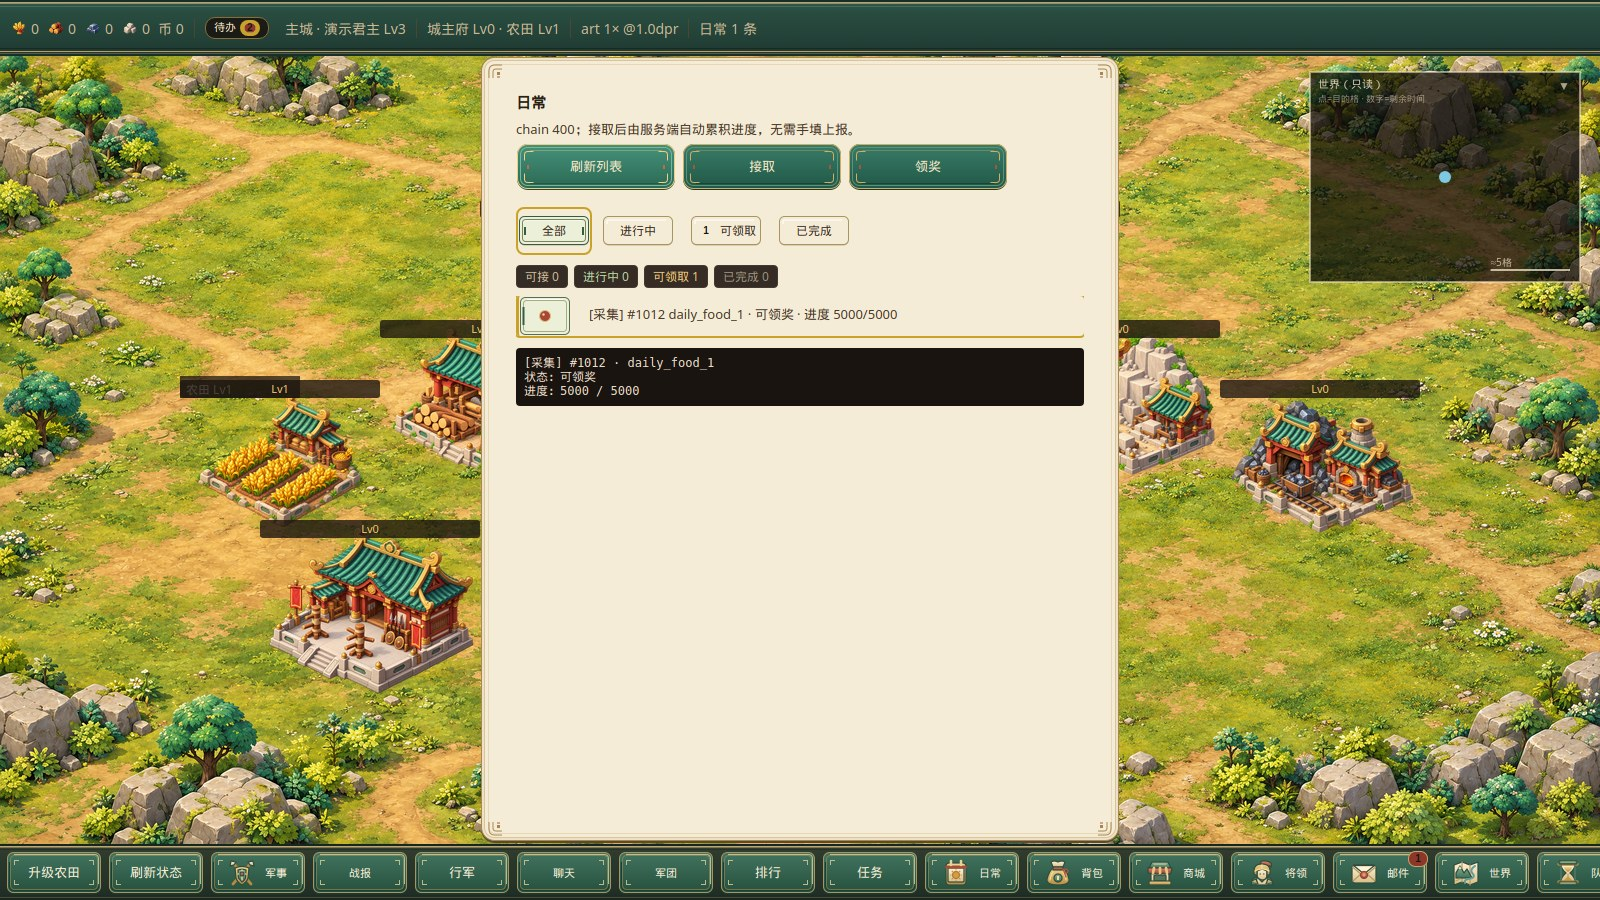
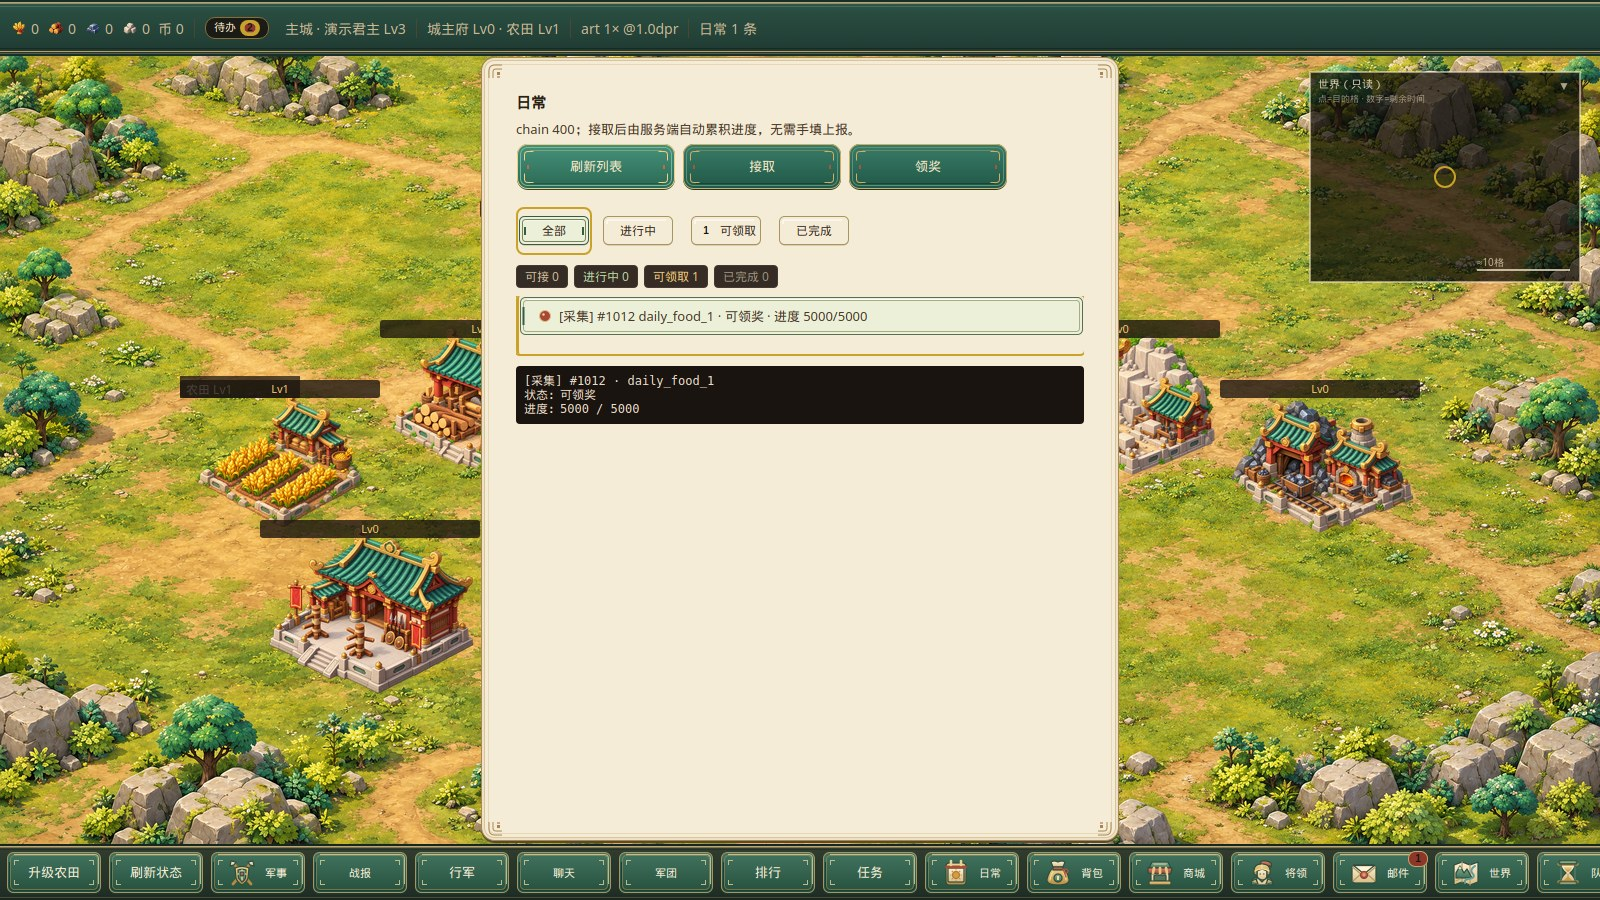
CLIENT-146 ART-UI-FILTER-008 日常行条与 badge_count 皮肤 (#579)
Closes #578. 日常 40px 横向行条修复；邮件 chip badge_count 皮肤挂载与证据。#108/#77/#82/#506 不合。

Changed region(s): [[0.3125, 0.3111, 0.6875, 0.4978], [0.875, 0.1867, 0.9062, 0.2178]]

diff --git a/client/src/engine/artUiFilterSkin.test.ts b/client/src/engine/artUiFilterSkin.test.ts
@@ -171,6 +171,29 @@ describe("mountFilterRow", () => {
     row.classList.add("selected");
     expect(resolveFilterRowAssetId(row)).toBe(ROW_FILTER_ASSET_BY_STATE.selected);
   });
+
+  it("keeps daily quest title in the 40px skin bar; cross-links in detail", () => {
+    const row = document.createElement("li");
+    row.dataset.uiFilterRow = "";
+    const dot = document.createElement("span");
+    dot.className = "daily-quest-row-claim-dot";
+    dot.dataset.uiFilterBadge = "dot";
+    const main = document.createElement("span");
+    main.className = "daily-quest-row-main";
+    main.textContent = "征收粮食 5000/5000";
+    const tag = document.createElement("button");
+    tag.type = "button";
+    tag.className = "daily-cross-link-tag";
+    tag.textContent = "邮件";
+    row.append(dot, main, tag);
+    mountFilterRow(row, mockAssets());
+    const bar = row.querySelector(".art-filter-row-skin-bar");
+    const detail = row.querySelector(".art-filter-row-detail");
+    expect(bar?.contains(main)).toBe(true);
+    expect(bar?.contains(dot)).toBe(true);
+    expect(detail?.contains(tag)).toBe(true);
+    expect(detail?.contains(main)).toBe(false);
+  });
 });
 
 describe("applyFilterChipVisualState", () => {

diff --git a/client/index.html b/client/index.html
@@ -1028,6 +1028,13 @@
       }
       .daily-quest-list li.art-filter-row--skinned {
         flex-wrap: nowrap;
+        flex-direction: column;
+        align-items: stretch;
+        gap: 0;
+      }
+      .daily-quest-list li.art-filter-row--skinned .art-filter-row-skin-bar {
+        width: 100%;
+        box-sizing: border-box;
       }
       .art-filter-chip-evidence-staging,
       .art-filter-row-evidence-staging {
@@ -1414,6 +1421,13 @@
         max-width: 100%;
         overflow: hidden;
         text-overflow: ellipsis;
+      }
+      .mail-filter-tab-badge.art-filter-badge-count--skinned {
+        padding: 0;
+        background: transparent;
+        border-radius: 0;
+        overflow: visible;
+        color: inherit;
       }
       @keyframes queue-build-complete-pulse-keyframes {
         0%, 100% { box-shadow: inset 0 0 0 0 transparent; }

diff --git a/client/src/ui/HeroMailPanels.ts b/client/src/ui/HeroMailPanels.ts
@@ -1,5 +1,4 @@
 import type { AssetLoader } from "@/engine/AssetLoader";
-import { applyUiCountBadge } from "@/engine/artBadgeSkin";
 import {
   PANEL_STATE_LOADING_MESSAGE,
   renderPanelStateListRow,
@@ -797,11 +796,7 @@ export class HeroMailPanels {
       const count = spec.action === "mail-filter-all" ? unclaimedCount : unreadForTab;
       countEl.dataset.filterBadgeCount = String(count);
       if (loader) {
-        applyUiCountBadge(countEl, count, {
-          assets: loader,
-          hiddenClass: "hidden",
-          fallbackText: () => spec.countBadge,
-        });
+        mountFilterBadgeCount(countEl, loader, count);
       } else {
         countEl.textContent = spec.countBadge;
         const show = Boolean(spec.countBadge);

diff --git a/client/src/engine/artUiFilterSkin.ts b/client/src/engine/artUiFilterSkin.ts
@@ -61,7 +61,7 @@ export const FILTER_CHIP_HIT_MIN = 44;
 export const FILTER_ROW_SKIN_BAR_HEIGHT = 40;
 
 const FILTER_ROW_DETAIL_SELECTORS =
-  ".mail-row-summary, .daily-quest-row-main, .daily-cross-link-tag, .march-row-meta, .march-row-recent-eta, .march-row-remarch-btn, .battle-report-row-foe, .battle-report-row-time, .battle-report-replay-grid-btn";
+  ".mail-row-summary, .daily-cross-link-tag, .march-row-meta, .march-row-recent-eta, .march-row-remarch-btn, .battle-report-row-foe, .battle-report-row-time, .battle-report-replay-grid-btn";
 
 export function isArtUiFilter008AssetId(id: string): id is ArtUiFilter008AssetId {
   return (ART_UI_FILTER_008_ASSET_IDS as readonly string[]).includes(id);

diff --git a/docs/art/samples/art-ui-filter-008/INTEGRATION-QA.md b/docs/art/samples/art-ui-filter-008/INTEGRATION-QA.md
@@ -2,7 +2,7 @@
 
 | 项 | 值 |
 |---|---|
-| tip SHA | `747c050574525ecddda3f2ef4bc8bf9631464b0c` |
+| tip SHA | `75c0f953bf3cddde78ad29474896ed6b0804c4d1` |
 | 范围 | 邮件 + 日常；全视口 JPEG（非面板 crop） |
 | 采集 | Playwright Chromium + mock 网关 + vite dev |
 | 再生 | `cd client && node scripts/capture-art-ui-filter-008-runtime-evidence.mjs` |
@@ -23,6 +23,8 @@
 | row 三态 staging（40px 行条完整） | **PASS** |
 | count **9** 角标（不重拍 count=0） | **PASS** |
 | count **9+** 角标（10→9+） | **PASS** |
+| 日常行条主标题在 40px skin bar 内且横向铺满 | **PASS** |
+| 邮件 chip 实例 badge_count 皮肤可见交集 | **PASS** |
 | 综合工程补证 | **PASS** |
 
 ## 全视口 JPEG
@@ -39,6 +41,8 @@
 | `runtime/mail-rows-three-states-1600x900.jpg` | 1600×900 | mail row 三态 staging |
 | `runtime/mail-badge-count-nine-1600x900.jpg` | 1600×900 | mail count 9+ |
 | `runtime/mail-badge-count-exact-nine-1600x900.jpg` | 1600×900 | mail count 9 |
+| `runtime/mail-chip-badge-count-skin-nine-crop-1600x900.jpg` | crop | mail chip badge_count 皮肤 count=9 |
+| `runtime/mail-chip-badge-count-skin-nineplus-crop-1600x900.jpg` | crop | mail chip badge_count 皮肤 9+ |
 
 详细 JSON：`probe-log.json`。
 

diff --git a/docs/art/samples/art-ui-filter-008/README.md b/docs/art/samples/art-ui-filter-008/README.md
@@ -26,6 +26,10 @@ Chip **CSS hit wrap ≥44×44** while sprite stays **72×32** — see `hit-proof
 
 `cd client && node scripts/capture-art-ui-filter-008-evidence.mjs`
 
+运行时全视口 + 探针（含 #578 日常行条与 chip `badge_count` 皮肤 crop）：
+
+`cd client && node scripts/capture-art-ui-filter-008-runtime-evidence.mjs`
+
 ## Tests
 
 `artUiFilterSkin.test.ts`; full suite `cd client && npm test`.
